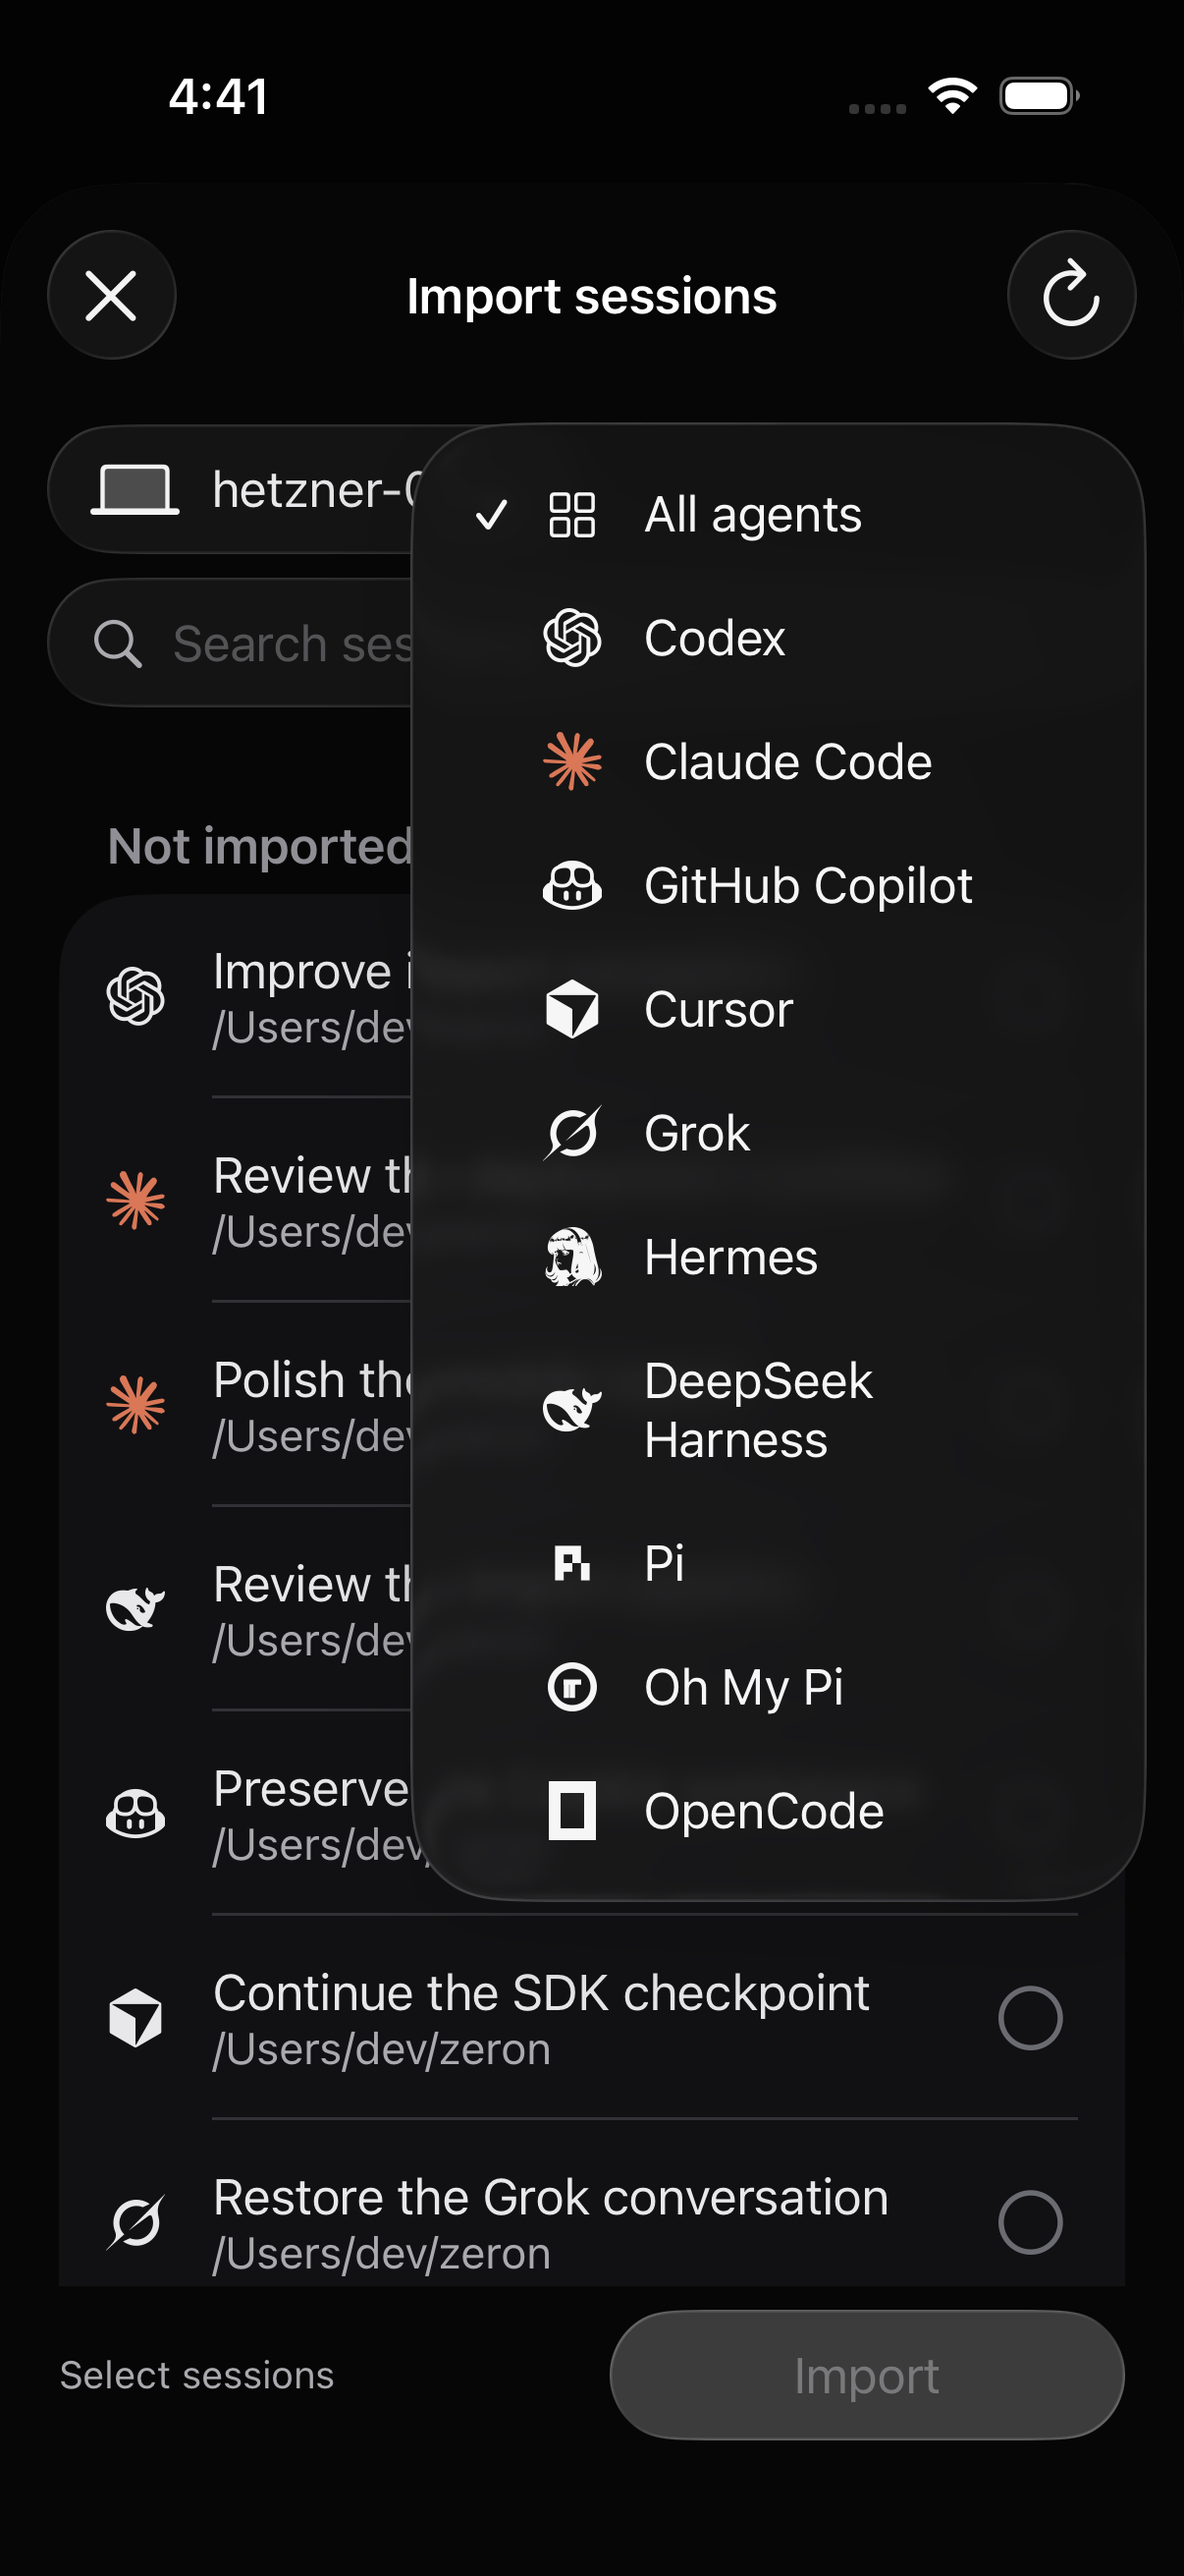
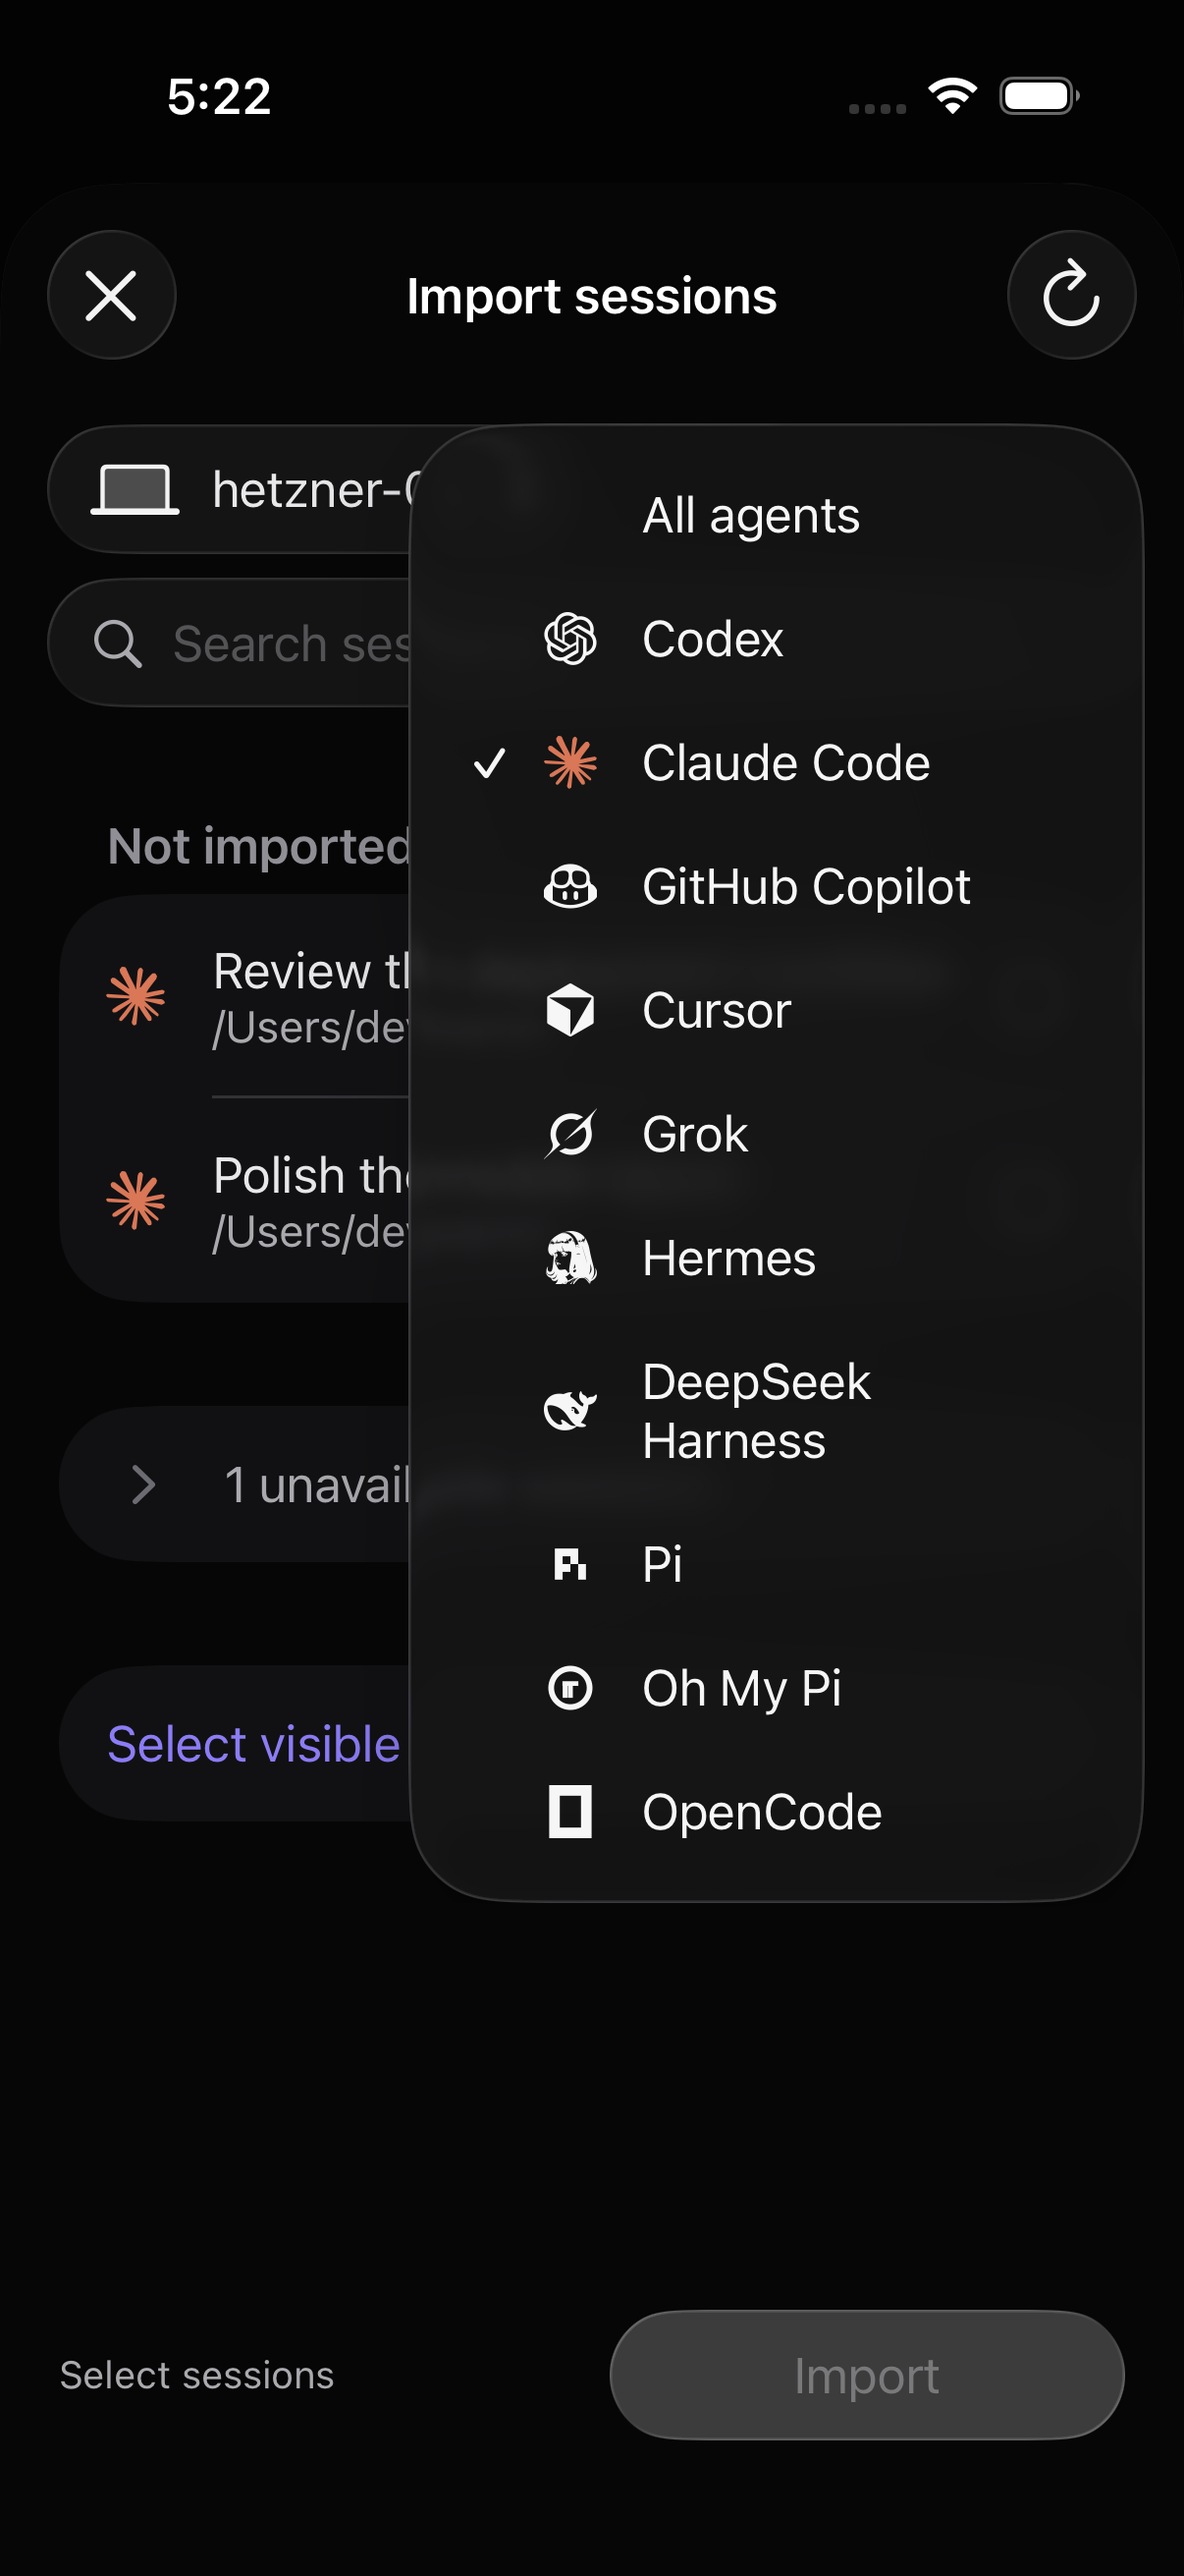
docs: refresh iOS screenshots with native import pickers

diff --git a/docs/screenshots/ios-import-layout/README.md b/docs/screenshots/ios-import-layout/README.md
@@ -1,13 +1,17 @@
 These are unedited XCTest screenshots from the offline demo workspace on an
 **iPhone 17 Pro simulator**, built with **Xcode 26.6**.
 
-Source revision: `beef6b410da0a0d2c4431267c164486ee69cf2fa`.
-CI run: https://github.com/AndPuQing/zeron/actions/runs/39199169719
+Source revision: `45fe7c98f6a563157b9f52d542be3ad066b6ff3e`.
+CI run: https://github.com/AndPuQing/zeron/actions/runs/39202461986
 
 - `light-selected.png`: one selected session and the compact import action.
 - `dark.png`: dark appearance with unavailable sessions collapsed.
 - `unavailable.png`: expanded unavailable histories and their reasons.
-- `agents.png`: native agent menu with brand icons after loading the second page.
+- `agents.png`: native single-selection agent menu with Claude selected.
+- `agent-selected.png`: the selected agent's brand mark and system pop-up indicator.
+- `hosts.png`: native computer menu, including an unavailable computer.
 
 The two import UI regressions and six existing UI flows passed, alongside
-18 native unit tests. Core tests and generated Swift binding checks also passed.
+18 native unit tests. The import flow also checks selecting an agent, returning
+to all agents, and switching computers. Core tests and generated Swift binding
+checks also passed.
